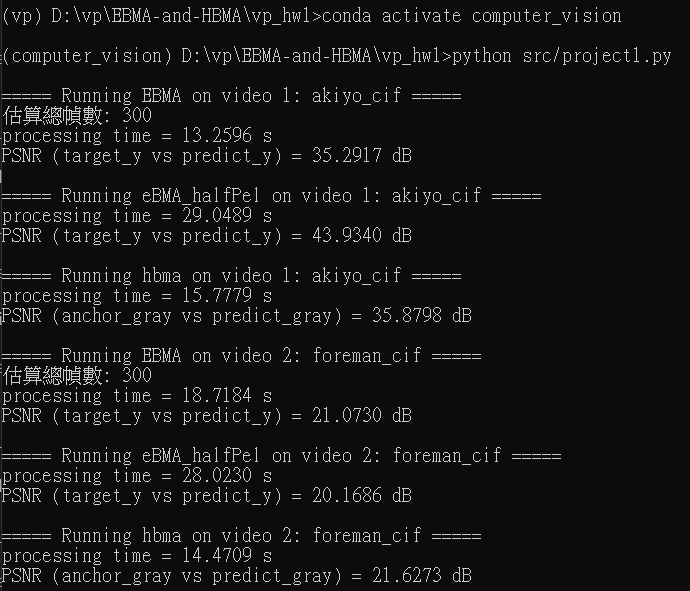
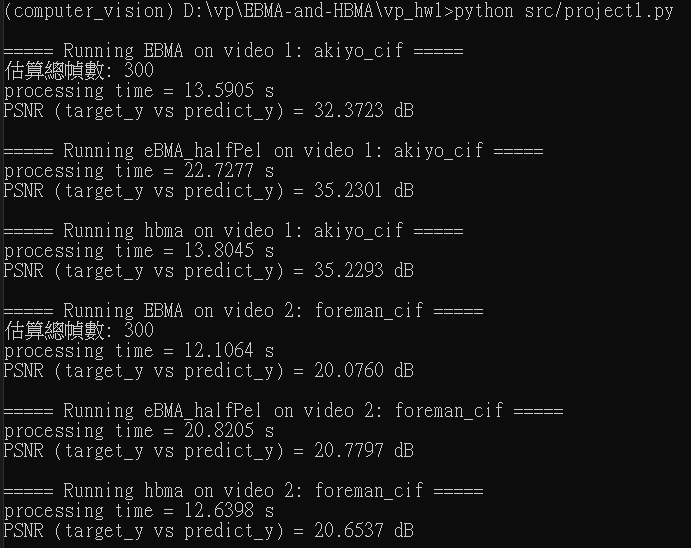
1027

diff --git a/README.md b/README.md
@@ -24,31 +24,31 @@ python src/project1.py
 
 #### test results
 
-![results_1026](./results/image.png)
+![results_1027](./results/image.png)
 
 ===== Running EBMA on video 1: akiyo_cif =====
 估算總幀數: 300
-processing time = 13.2596 s
-PSNR (target_y vs predict_y) = 35.2917 dB
+processing time = 13.5905 s
+PSNR (target_y vs predict_y) = 32.3723 dB
 
 ===== Running eBMA_halfPel on video 1: akiyo_cif =====
-processing time = 29.0489 s
-PSNR (target_y vs predict_y) = 43.9340 dB
+processing time = 22.7277 s
+PSNR (target_y vs predict_y) = 35.2301 dB
 
 ===== Running hbma on video 1: akiyo_cif =====
-processing time = 15.7779 s
-PSNR (anchor_gray vs predict_gray) = 35.8798 dB
+processing time = 13.8045 s
+PSNR (target_y vs predict_y) = 35.2293 dB
 
 ===== Running EBMA on video 2: foreman_cif =====
 估算總幀數: 300
-processing time = 18.7184 s
-PSNR (target_y vs predict_y) = 21.0730 dB
+processing time = 12.1064 s
+PSNR (target_y vs predict_y) = 20.0760 dB
 
 ===== Running eBMA_halfPel on video 2: foreman_cif =====
-processing time = 28.0230 s
-PSNR (target_y vs predict_y) = 20.1686 dB
+processing time = 20.8205 s
+PSNR (target_y vs predict_y) = 20.7797 dB
 
 ===== Running hbma on video 2: foreman_cif =====
-processing time = 14.4709 s
-PSNR (anchor_gray vs predict_gray) = 21.6273 dB
+processing time = 12.6398 s
+PSNR (target_y vs predict_y) = 20.6537 dB
 
